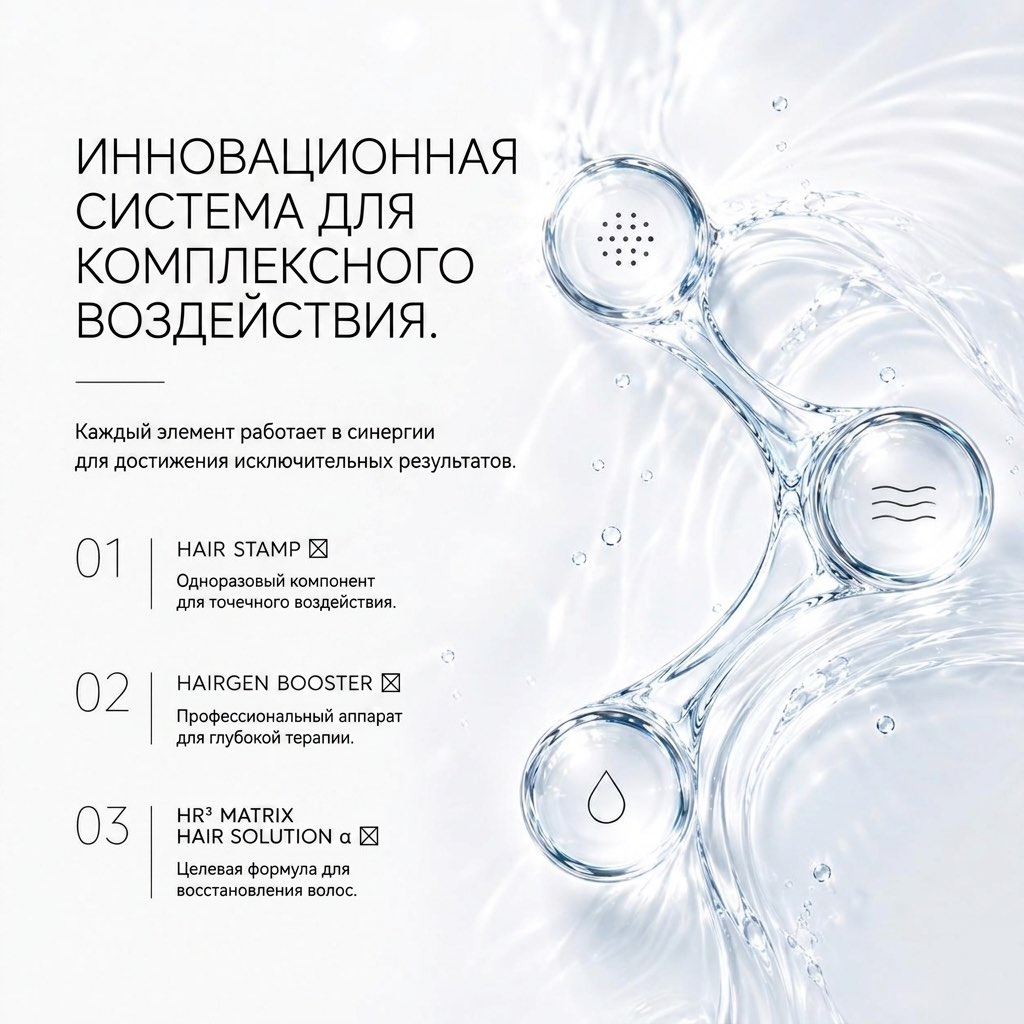
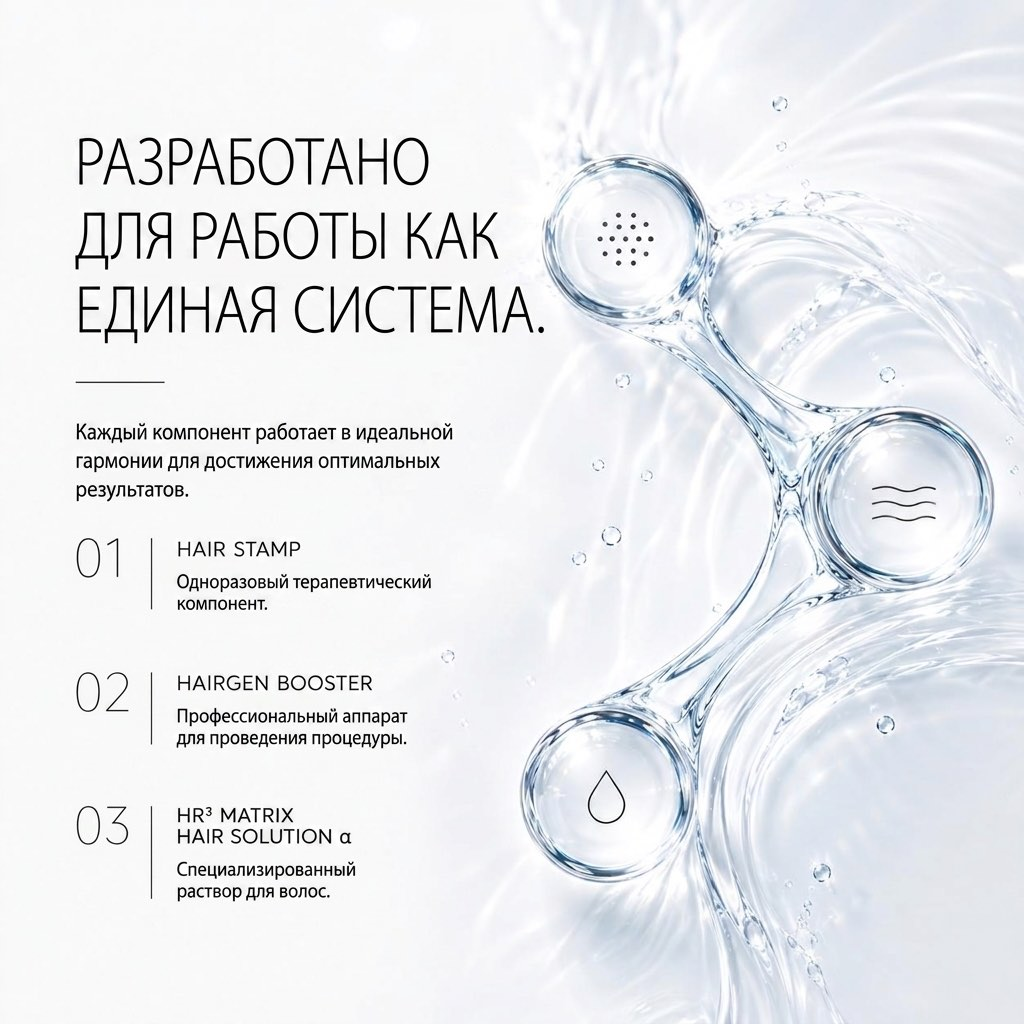
Register the corrected Russian s1 slide for product 64
The reissued export drops the missing-glyph boxes after the three product
names, so Russian no longer has to fall back to the English slide.

diff --git a/lib/localizedProductImages.ts b/lib/localizedProductImages.ts
@@ -52,11 +52,10 @@ const LOCALIZED_SLIDES: Record<string, Partial<Record<Locale, readonly string[]>
     ar: ['s1.jpg', 's2.jpg', 's3.jpg', 's4.jpg', 's5.jpg', 's6.jpg', 's7.jpg', 'closing.jpg'],
   },
   // Product 64, HR3 MATRIX HAIR STAMP. Main.jpeg is a plain packshot and is not
-  // translated. Russian s1 is on disk but deliberately unregistered: that export
-  // renders the three product names with a missing glyph (a tofu box) after each
-  // one, so Russian falls back to the English s1 until a corrected file arrives.
+  // translated. The first Russian s1 was withheld for a missing glyph after each
+  // product name; the corrected export landed the same day and is registered here.
   '/images/needles2': {
-    ru: ['s2.jpeg', 's3.jpeg', 's4.jpeg', 's5.jpeg', 'closing.jpeg'],
+    ru: ['s1.jpeg', 's2.jpeg', 's3.jpeg', 's4.jpeg', 's5.jpeg', 'closing.jpeg'],
     ar: ['s1.jpeg', 's2.jpeg', 's3.jpeg', 's4.jpeg', 's5.jpeg', 'closing.jpeg'],
   },
 }

diff --git a/docs/SESSION_CHANGES_2026-08-22_PRODUCT_64_LOCALIZED_SLIDES.md b/docs/SESSION_CHANGES_2026-08-22_PRODUCT_64_LOCALIZED_SLIDES.md
@@ -23,15 +23,16 @@ the localized website and the locale-aware mobile API.
 - `HairStampProductPage` now localizes both the gallery and the four inline
   figures (mechanism `s3`, protocol `s4`, spec `s1`, closing band).
 
-## Russian s1 withheld
+## Russian s1 correction
 
-The supplied Russian `s1` renders a missing-glyph box after each of the three
-product names — `HAIR STAMP ⊠`, `HAIRGEN BOOSTER ⊠`, `HR³ MATRIX HAIR SOLUTION
-α ⊠` — where a trademark symbol failed to embed. The file is on disk but is not
-listed in the manifest, so Russian keeps the English `s1` in both the gallery
-and the spec section until a corrected export arrives. That is the manifest's
-intended safe failure: an unregistered slide silently stays English rather than
-404ing.
+The first supplied Russian `s1` rendered a missing-glyph box after each of the
+three product names — `HAIR STAMP ⊠`, `HAIRGEN BOOSTER ⊠`, `HR³ MATRIX HAIR
+SOLUTION α ⊠` — where a trademark symbol failed to embed. It shipped to disk
+unregistered, so Russian fell back to the English `s1` in both the gallery and
+the spec section, which is the manifest's intended safe failure. A corrected
+export arrived the same afternoon, was checked against the English original,
+compressed to 141 KB, and registered. The complete Russian set is now
+localized.
 
 The remaining eleven slides were reviewed against the English originals and are
 clean. The garbled small print on the carton in `closing` is pre-existing in the
